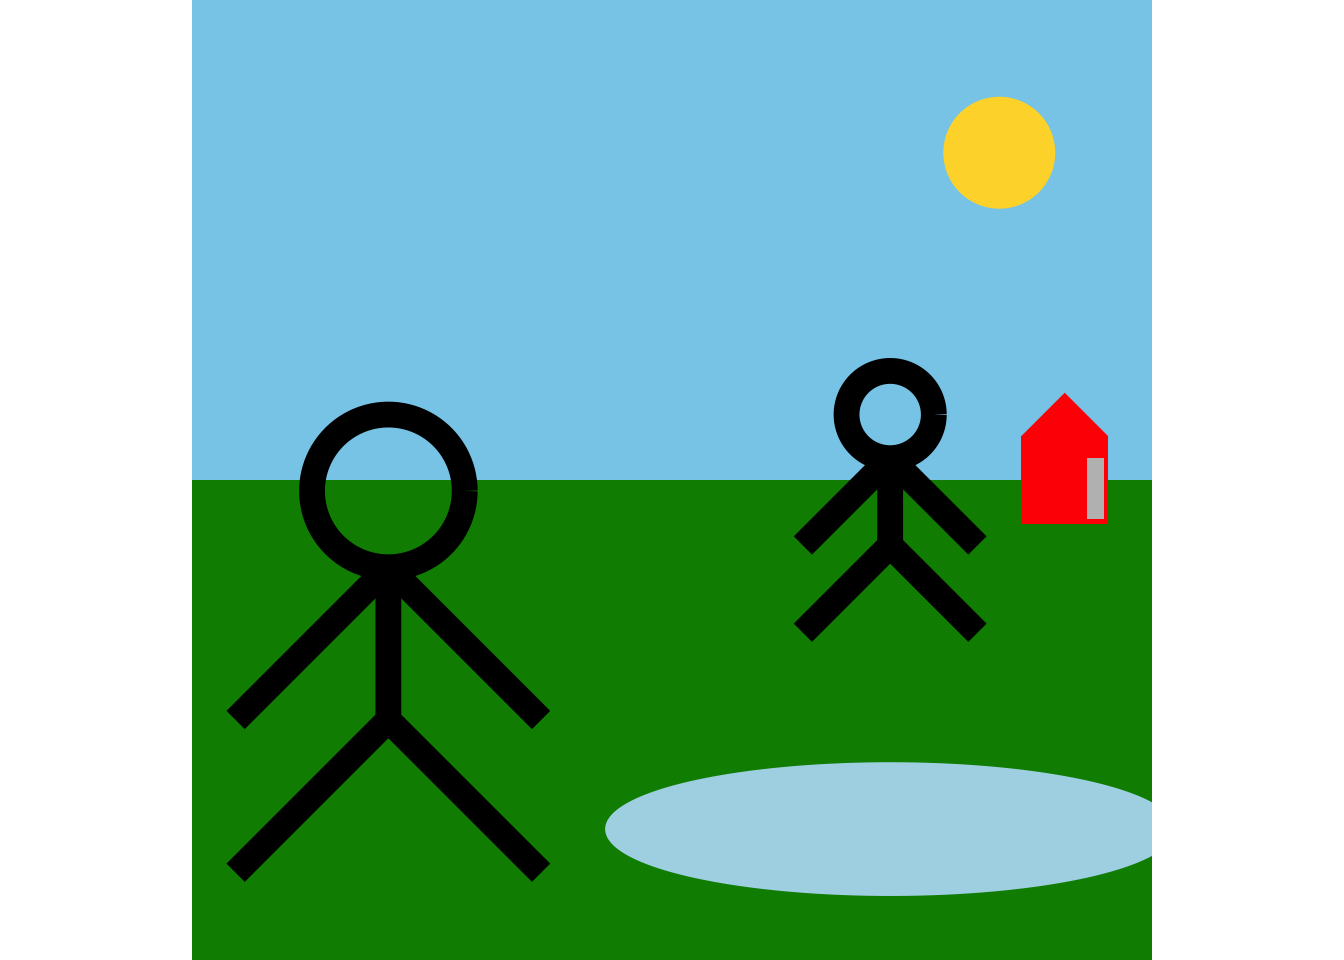
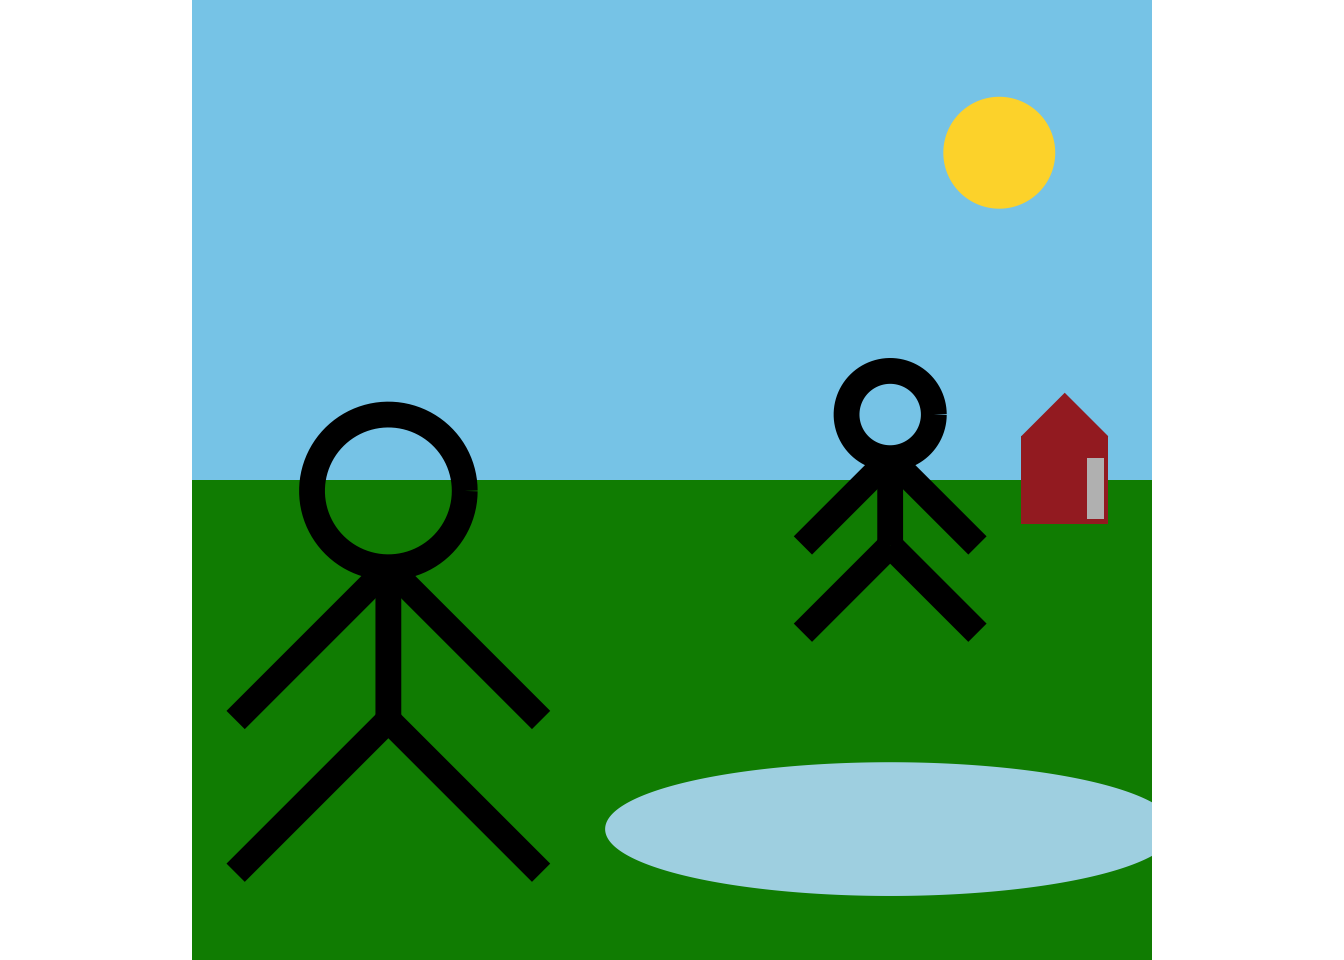
update

Changed region(s): [[0.75, 0.4062, 0.8438, 0.5625]]

diff --git a/Project3Description.html b/Project3Description.html
@@ -137,7 +137,7 @@ code span.wa { color: #60a0b0; font-weight: bold; font-style: italic; } /* Warni
 <span id="cb2-2"><a href="#cb2-2" aria-hidden="true" tabindex="-1"></a><span class="fu">build_stick_figure</span>(<span class="at">scale =</span> .<span class="dv">35</span>, <span class="at">shift_x =</span> <span class="sc">-</span>.<span class="dv">65</span>, <span class="at">shift_y =</span> <span class="sc">-</span>.<span class="dv">55</span>) <span class="sc">|&gt;</span></span>
 <span id="cb2-3"><a href="#cb2-3" aria-hidden="true" tabindex="-1"></a>  <span class="fu">build_stick_figure</span>(<span class="at">scale =</span> .<span class="dv">20</span>, <span class="at">shift_x =</span> .<span class="dv">5</span>, <span class="at">shift_y =</span> <span class="sc">-</span>.<span class="dv">15</span>) <span class="sc">|&gt;</span></span>
 <span id="cb2-4"><a href="#cb2-4" aria-hidden="true" tabindex="-1"></a>  <span class="fu">build_lake</span>(<span class="at">shift_y =</span> <span class="sc">-</span>.<span class="dv">8</span>, <span class="at">angle =</span> <span class="dv">0</span>) <span class="sc">|&gt;</span></span>
-<span id="cb2-5"><a href="#cb2-5" aria-hidden="true" tabindex="-1"></a>  <span class="fu">build_house</span>(<span class="at">scale =</span> .<span class="dv">20</span>, <span class="at">shift_x =</span> .<span class="dv">90</span>) <span class="sc">|&gt;</span></span>
+<span id="cb2-5"><a href="#cb2-5" aria-hidden="true" tabindex="-1"></a>  <span class="fu">build_house</span>(<span class="at">scale =</span> .<span class="dv">20</span>, <span class="at">shift_x =</span> .<span class="dv">90</span>, <span class="at">color =</span> <span class="st">"brown"</span>) <span class="sc">|&gt;</span></span>
 <span id="cb2-6"><a href="#cb2-6" aria-hidden="true" tabindex="-1"></a>  <span class="fu">build_sun_or_moon</span>(<span class="at">type=</span> <span class="st">"sun"</span>) </span></code><button title="Copy to Clipboard" class="code-copy-button"><i class="bi"></i></button></pre></div>
 <div class="cell-output-display">
 <p><img src="Project3Description_files/figure-html/unnamed-chunk-2-1.png" class="img-fluid" width="672"></p>
